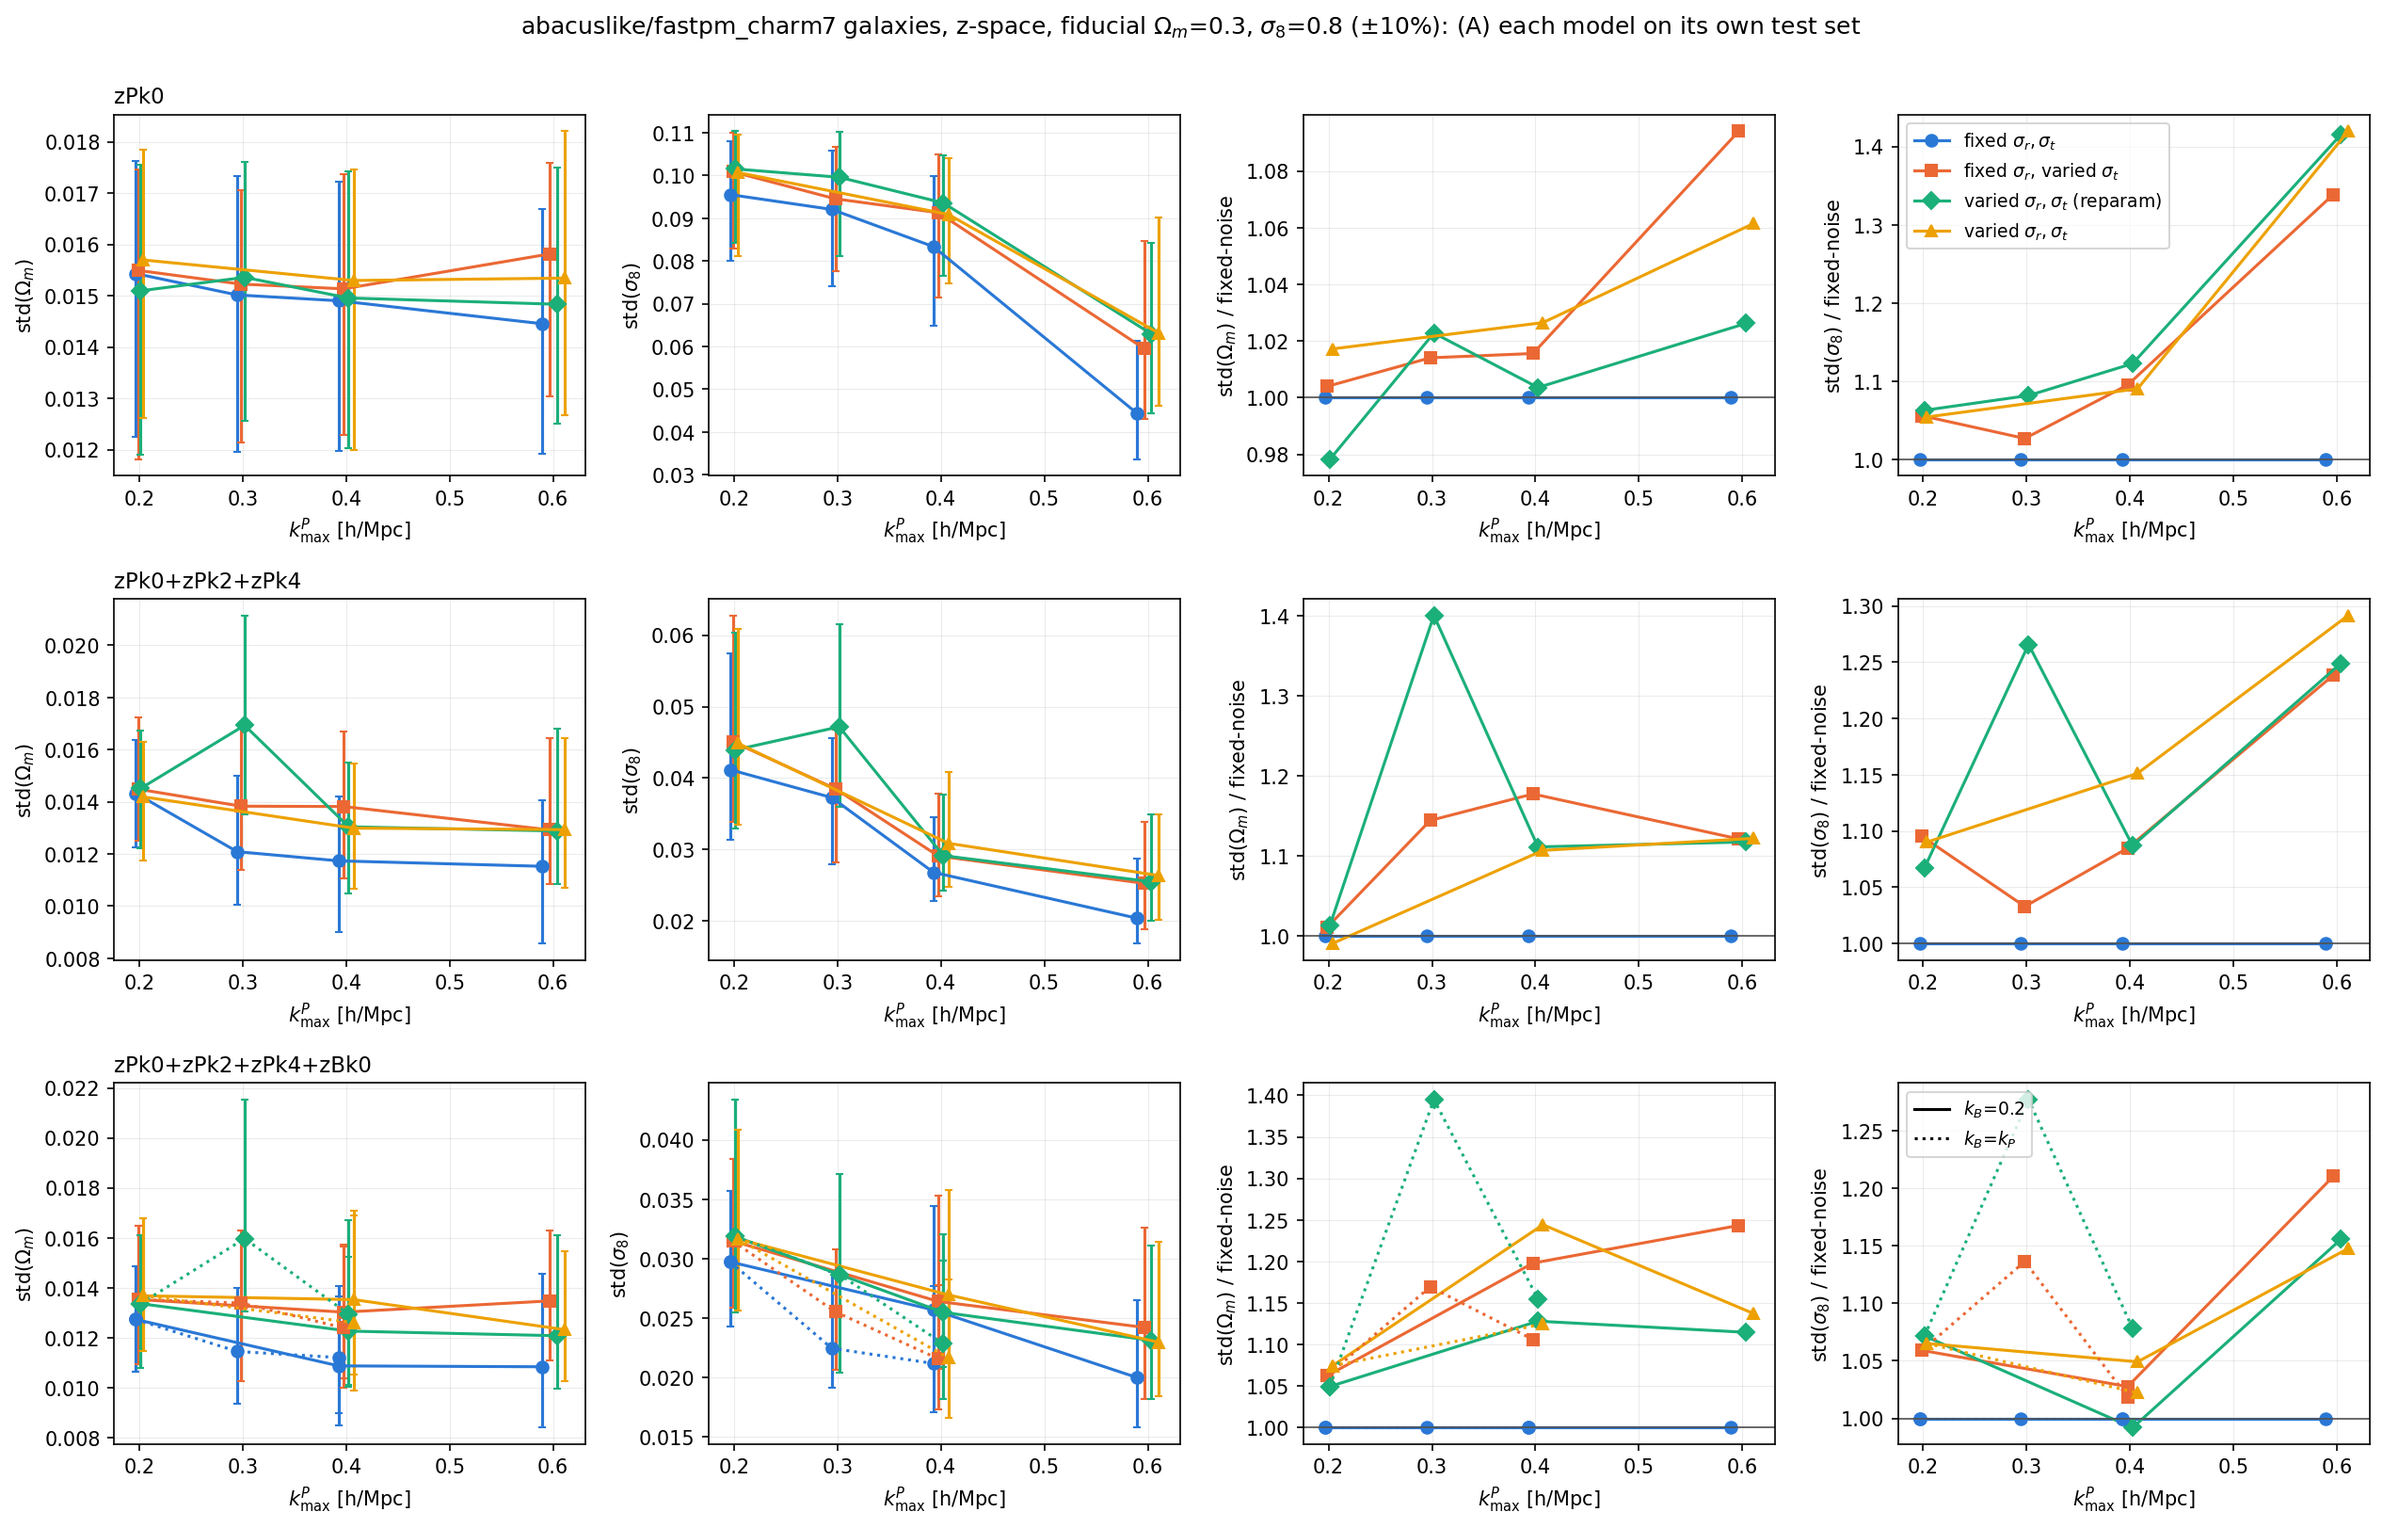
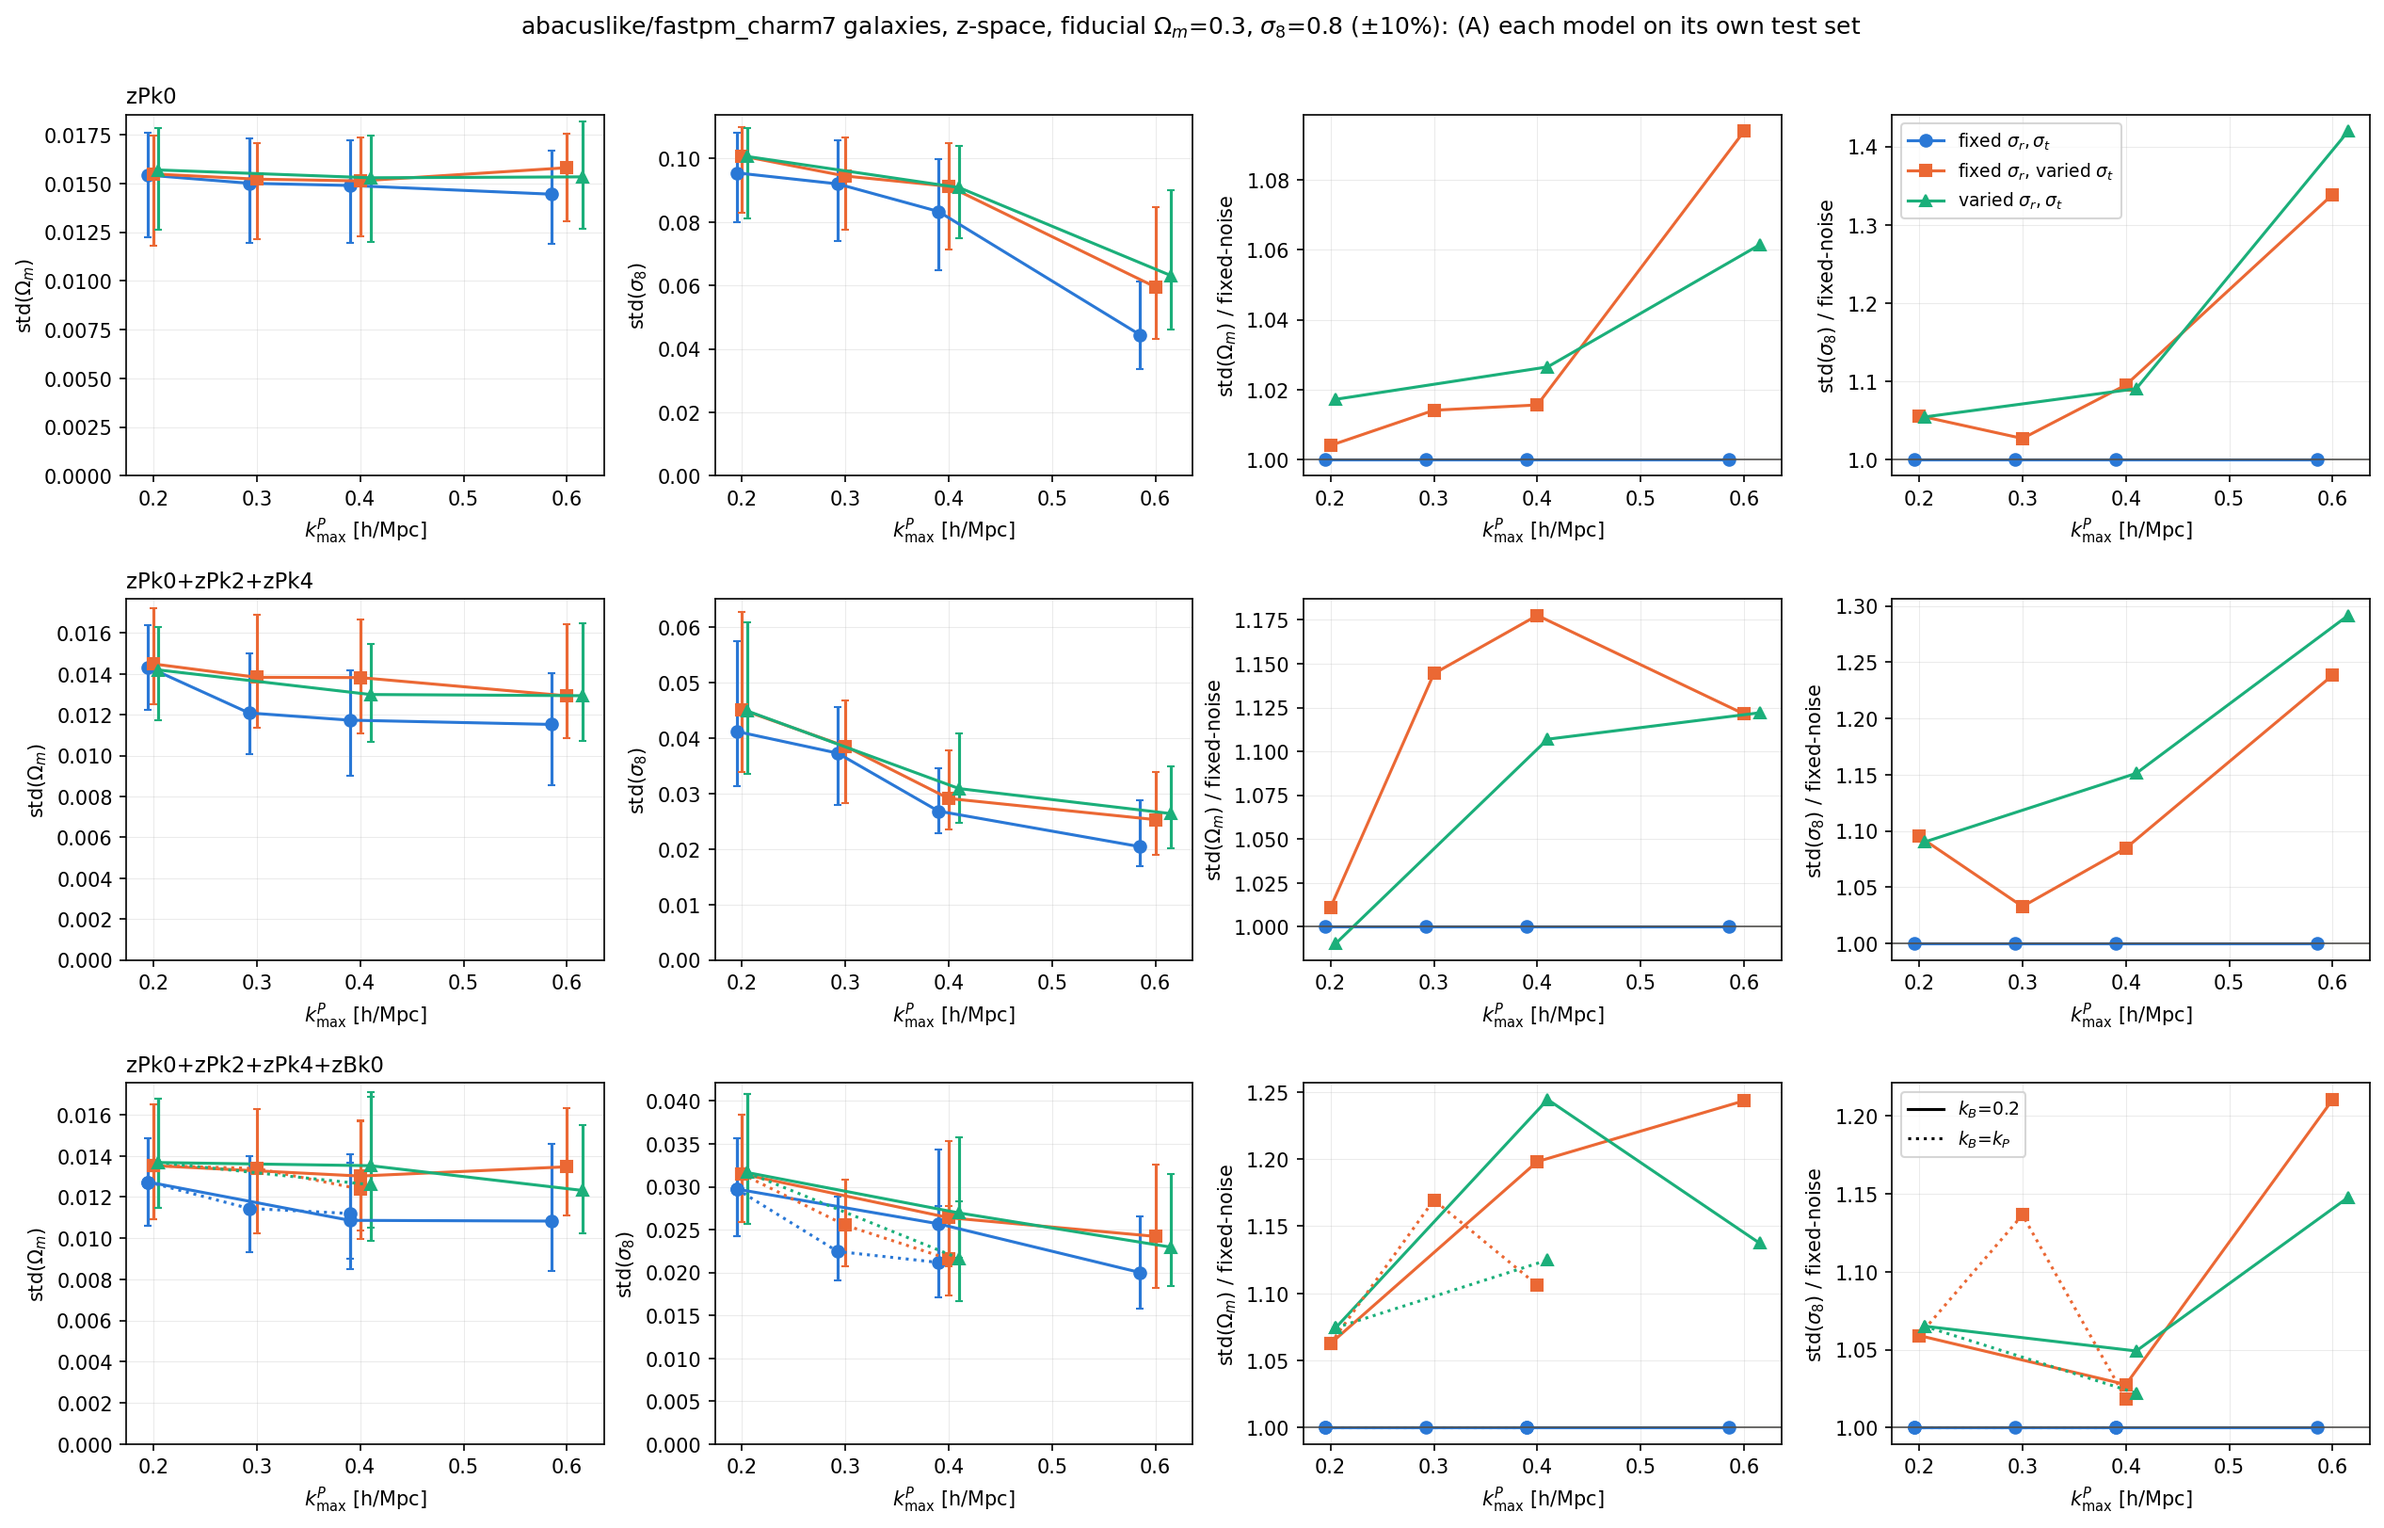
cleaning up the figures

diff --git a/experiments/2026-10-19_noise_inflation_abacuslike-fastpm_charm7/update.md b/experiments/2026-10-19_noise_inflation_abacuslike-fastpm_charm7/update.md
@@ -16,16 +16,16 @@ Two measurements:
 ## Summary
 
 - **The inflation is modest, 0–25% in std, and grows with kmax.** At kmax = 0.2 every summary is within 0–9% of the fixed-noise width. At zPk024 kmax 0.4 it is +11–23%; at kmax 0.6 it is +15% in Ωm and +21–30% in σ8.
-- **Varying σ_tran alone accounts for nearly all of it.** Outside the under-trained reparam kmax=0.3 cuts, the σ_tran-only model (orange) and the fully marginalized models (green, yellow) are within 0.15 of each other in ratio, and the σ_tran-only ratio is the larger one about as often as the smaller. The reparam and non-reparam case-3 models, trained on identical data, differ by up to 0.11 themselves. The one consistent pattern is σ8 at zPk kmax 0.6 without the bispectrum, where the σ_tran-only ratio is lower than both fully marginalized ones (zPk0: 1.26 vs 1.34–1.40; zPk024: 1.21 vs 1.25–1.30); elsewhere no cell shows a systematic extra cost from also varying σ_rad.
+- **Varying σ_tran alone accounts for nearly all of it.** Outside the under-trained reparam kmax=0.3 cuts, the σ_tran-only model (orange) and the fully marginalized models (green in the figures; reparam in the table) are within 0.15 of each other in ratio, and the σ_tran-only ratio is the larger one about as often as the smaller. The reparam and non-reparam case-3 models, trained on identical data, differ by up to 0.11 themselves. The one consistent pattern is σ8 at zPk kmax 0.6 without the bispectrum, where the σ_tran-only ratio is lower than both fully marginalized ones (zPk0: 1.26 vs 1.34–1.40; zPk024: 1.21 vs 1.25–1.30); elsewhere no cell shows a systematic extra cost from also varying σ_rad.
 - **Ωm and σ8 respond differently by summary.** For zPk0, the Ωm width is unchanged (≤ 6%) at every kmax, while σ8 inflates from 1.01–1.03 at 0.2 to 1.26–1.40 at 0.6. For zPk024 and +zBk0, Ωm inflates by 1.10–1.24 once zPk kmax ≥ 0.4, while σ8 stays at 0.98–1.05 for the bispectrum cuts (0.2, 0.2), (0.4, 0.2) and (0.4, 0.4).
 - **(A) and (B) agree** to within about 0.05 in ratio in most cells (largest gap 0.08), so evaluating at σ = 1.5 is representative of the noise-averaged width.
-- **The reparam zPk024 and +zBk0 kmax=0.3 cuts are outliers** (ratios 1.24–1.48), consistent with their short Optuna runs; the σ_tran-only model at the same cuts has ratios 1.05–1.18. Treat those green points as under-trained, not as a noise effect.
+- **The reparam zPk024 and +zBk0 kmax=0.3 cuts are outliers** (ratios 1.24–1.48), consistent with their short Optuna runs; the σ_tran-only model at the same cuts has ratios 1.05–1.18. Treat them as under-trained, not as a noise effect. The figures therefore show only the non-reparam case-3 models (which have no kmax=0.3 cut); the reparam numbers stay in the table and the `.npz`.
 
 <img width="1000" src="figures/noise_inflation_abacuslike_charm7_B.png" />
 
 ## (B) Common fixed-noise inputs
 
-Median std ×10³ and per-row median ratio to the fixed-noise model (trans = σ_tran-only, rep = reparam, non = non-reparam):
+Median std ×10³ and per-row median ratio to the fixed-noise model (trans = σ_tran-only, rep = reparam, non = non-reparam). The std axes in the figures start at 0.
 
 | summary | kmax | std(Ωm) fixed | Ωm ratio trans / rep / non | std(σ8) fixed | σ8 ratio trans / rep / non |
 |---|---|---|---|---|---|
